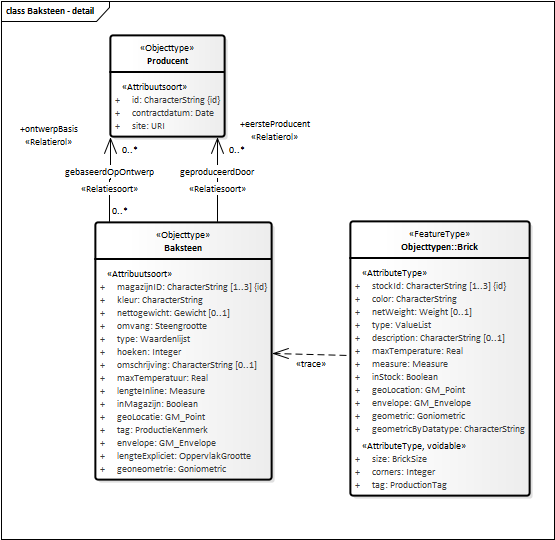
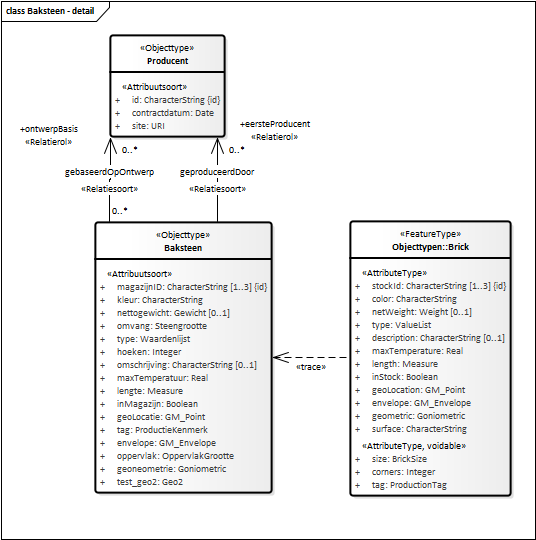
Conceptualmodel-SampleBase-1.0.0-2-20130318-20181016-110808

diff --git a/data/SAMPLE-cat.html b/data/SAMPLE-cat.html
@@ -1,10 +1,10 @@
 <h2>Catalogus</h2>
 <p class="note" title="Over deze catalogus">
    Deze catalogus is automatisch samengesteld op basis van het UML model 
-   "SampleBase" door Imvertor 1.47.4 op October 15, 2018 at 12:28:52.
+   "SampleBase" door Imvertor 1.47.4 op October 16, 2018 at 09:08:06.
    <br>
    Wanneer je technische fouten of onvolkomenheden aantreft, geef dit dan door aan <i></i> en geef de code 
-   <i>"Conceptualmodel-SampleBase-1.0.0-2-20130318-20181015-142854"</i> door. 
+   <i>"Conceptualmodel-SampleBase-1.0.0-2-20130318-20181016-110808"</i> door. 
    
 </p>
 <div class="imageinfo overview"><img src="data/Images/EAID_08513AA0_8A50_46c1_AD86_9B80D9A6AAE1.png" usemap="#imagemap-EAID_08513AA0_8A50_46c1_AD86_9B80D9A6AAE1"><map name="imagemap-EAID_08513AA0_8A50_46c1_AD86_9B80D9A6AAE1">
@@ -20,7 +20,7 @@
       <area shape="rect" coords="54,744,226,693" alt="" href="#graph_EAID_05E012A3_0E45_4b91_8F93_3CC0D50B0509">
       <area shape="rect" coords="61,901,205,788" alt="" href="#graph_EAID_22DF50AD_91EB_4db3_AA33_D5C2CE2FB906">
       <area shape="rect" coords="400,475,535,373" alt="" href="#graph_EAID_E2C93214_90E2_4151_B719_7BB8CDF8679F">
-      <area shape="rect" coords="35,436,238,171" alt="" href="#graph_EAID_CF7C4448_E50C_4c7a_B1D0_C4FCB2EB1814">
+      <area shape="rect" coords="35,442,238,171" alt="" href="#graph_EAID_CF7C4448_E50C_4c7a_B1D0_C4FCB2EB1814">
       <area shape="rect" coords="395,325,530,180" alt="" href="#graph_EAID_04EED45C_4D30_41b9_83EE_65237E1F8E27">
       <area shape="rect" coords="265,965,375,875" alt="" href="#graph_EAID_8D034A6D_37F7_4765_9CFF_FE3DF59A8340">
       <area shape="rect" coords="805,284,960,166" alt="" href="#graph_EAID_77692663_02DC_482e_827D_F7D28AF607D8">
@@ -35,7 +35,7 @@
       
       <div class="imageinfo "><img src="data/Images/EAID_EB759E5B_3FAA_4064_A73E_704926072F89.png" usemap="#imagemap-EAID_EB759E5B_3FAA_4064_A73E_704926072F89"><map name="imagemap-EAID_EB759E5B_3FAA_4064_A73E_704926072F89">
             <area shape="rect" coords="110,137,225,35" alt="" href="#graph_EAID_04EED45C_4D30_41b9_83EE_65237E1F8E27">
-            <area shape="rect" coords="95,480,272,222" alt="" href="#graph_EAID_CF7C4448_E50C_4c7a_B1D0_C4FCB2EB1814"></map><p><b>Baksteen - detail</b> — Gedetailleerde informatie over Baksteen objectttype, inclusief traces.
+            <area shape="rect" coords="95,493,272,222" alt="" href="#graph_EAID_CF7C4448_E50C_4c7a_B1D0_C4FCB2EB1814"></map><p><b>Baksteen - detail</b> — Gedetailleerde informatie over Baksteen objectttype, inclusief traces.
          </p>
       </div>
       
@@ -174,7 +174,7 @@
             </tr>
             <tr>
                <td>
-                  <a class="link" href="#detail_attribute_Model_Baksteen_lengteInline">lengteInline</a>
+                  <a class="link" href="#detail_attribute_Model_Baksteen_lengte">lengte</a>
                   
                </td>
                <td>Lengte in meters</td>
@@ -234,7 +234,7 @@
             </tr>
             <tr>
                <td>
-                  <a class="link" href="#detail_attribute_Model_Baksteen_lengteExpliciet">lengteExpliciet</a>
+                  <a class="link" href="#detail_attribute_Model_Baksteen_oppervlak">oppervlak</a>
                   
                </td>
                <td></td>
@@ -252,6 +252,18 @@
                <td></td>
                <td>
                   <a class="link" href="#global_class_Model_Goniometric">Goniometric</a>
+                  
+               </td>
+               <td>1</td>
+            </tr>
+            <tr>
+               <td>
+                  <a class="link" href="#detail_attribute_Model_Baksteen_test_geo2">test_geo2</a>
+                  
+               </td>
+               <td></td>
+               <td>
+                  <a class="link" href="#global_class_Model_Geo2">Geo2</a>
                   
                </td>
                <td>1</td>
@@ -1628,8 +1640,8 @@
          </table>
          
       </section>
-      <a class="anchor" name="detail_attribute_Model_Baksteen_lengteInline"></a><section id="detail_attribute_Model_Baksteen_lengteInline">
-         <h6>Attribuutsoort details <a href="#global_class_Model_Baksteen">Baksteen</a> lengteInline
+      <a class="anchor" name="detail_attribute_Model_Baksteen_lengte"></a><section id="detail_attribute_Model_Baksteen_lengte">
+         <h6>Attribuutsoort details <a href="#global_class_Model_Baksteen">Baksteen</a> lengte
          </h6>
          
          <table>
@@ -1638,7 +1650,7 @@
             <tbody>
                <tr>
                   <th>Naam</th>
-                  <td>lengteInline</td>
+                  <td>lengte</td>
                </tr>
                <tr>
                   <th>Definitie</th>
@@ -1670,7 +1682,7 @@
                </tr>
                <tr>
                   <th>Meeteenheid</th>
-                  <td>Kg</td>
+                  <td>m</td>
                </tr>
             </tbody>
          </table>
@@ -1840,8 +1852,8 @@
          </table>
          
       </section>
-      <a class="anchor" name="detail_attribute_Model_Baksteen_lengteExpliciet"></a><section id="detail_attribute_Model_Baksteen_lengteExpliciet">
-         <h6>Attribuutsoort details <a href="#global_class_Model_Baksteen">Baksteen</a> lengteExpliciet
+      <a class="anchor" name="detail_attribute_Model_Baksteen_oppervlak"></a><section id="detail_attribute_Model_Baksteen_oppervlak">
+         <h6>Attribuutsoort details <a href="#global_class_Model_Baksteen">Baksteen</a> oppervlak
          </h6>
          
          <table>
@@ -1850,7 +1862,7 @@
             <tbody>
                <tr>
                   <th>Naam</th>
-                  <td>lengteExpliciet</td>
+                  <td>oppervlak</td>
                </tr>
                <tr>
                   <th>Mogelijk geen waarde</th>
@@ -1911,6 +1923,46 @@
                <tr>
                   <th>Formaat</th>
                   <td>Goniometric</td>
+               </tr>
+               <tr>
+                  <th>Indicatie afleidbaar</th>
+                  <td>Nee</td>
+               </tr>
+            </tbody>
+         </table>
+         
+      </section>
+      <a class="anchor" name="detail_attribute_Model_Baksteen_test_geo2"></a><section id="detail_attribute_Model_Baksteen_test_geo2">
+         <h6>Attribuutsoort details <a href="#global_class_Model_Baksteen">Baksteen</a> test_geo2
+         </h6>
+         
+         <table>
+            <colgroup width="30%"></colgroup>
+            <colgroup width="70%"></colgroup>
+            <tbody>
+               <tr>
+                  <th>Naam</th>
+                  <td>test_geo2</td>
+               </tr>
+               <tr>
+                  <th>Mogelijk geen waarde</th>
+                  <td>Nee</td>
+               </tr>
+               <tr>
+                  <th>Indicatie materiële historie</th>
+                  <td>Nee</td>
+               </tr>
+               <tr>
+                  <th>Indicatie formele historie</th>
+                  <td>Nee</td>
+               </tr>
+               <tr>
+                  <th>Indicatie kardinaliteit</th>
+                  <td>1</td>
+               </tr>
+               <tr>
+                  <th>Formaat</th>
+                  <td>Geo2</td>
                </tr>
                <tr>
                   <th>Indicatie afleidbaar</th>
